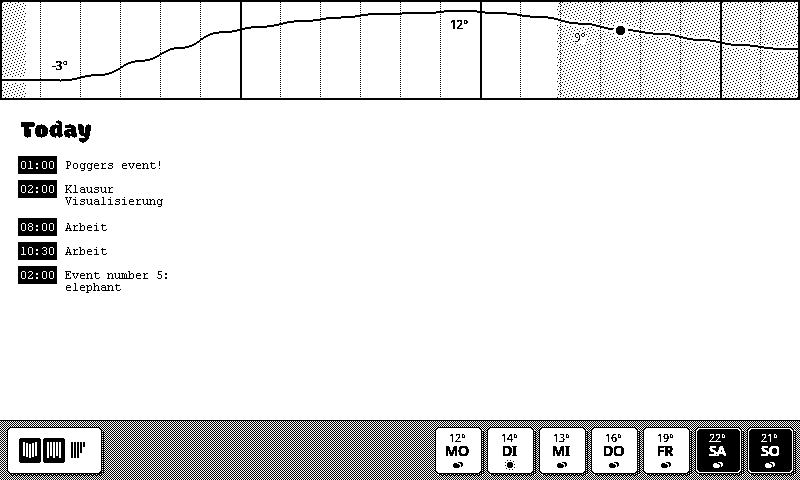
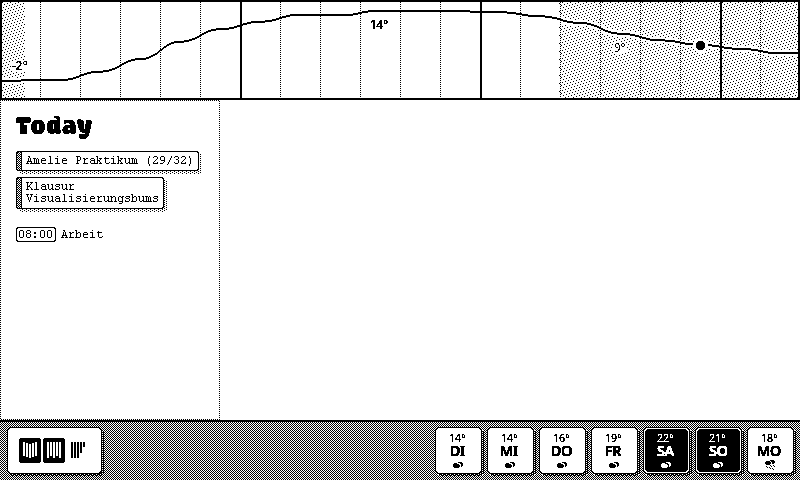
poo

diff --git a/base/ui/calendar.ts b/base/ui/calendar.ts
@@ -4,28 +4,68 @@ import type { Renderer } from "../lib/image"
 
 export function drawCalendarUpcoming(calendar: GCalendarApi): Renderer {
   return ({ paint, width, height }) => {
+    const padding = 15
+    const maxWidth = width - padding * 2
 
     paint.newRect(0, 0, width, height)
       .fill('white')
+      .outline('medium')
 
     const textPaint = paint
       .newText('Today')
-      .at(20, 20)
+      .at(padding, padding)
       .anchor('left', 'top')
-      .size(26)
+      .size(28)
       .font('Modak')
-      .threshold(0.2)
+      .threshold(0.05)
       .render('black')
 
-    // paint.newRect(40, 60, 120, 190)
-    //   .round(6)
-    //   .fill('medium')
-    //   .inset(1)
-    //   .fill('white')
+    const allDayers = calendar.today.filter(event => event.isAllDay)
+    const timedEvents = calendar.today.filter(event => !event.isAllDay)
 
-    let y = 60
-    for (let i = 0; i < 5; i++) {
-      const event = calendar.upcoming[i]
+    let y = textPaint.toRect().getSize().height + padding + 10
+    for (let i = 0; i < 6; i++) {
+      const event = allDayers[i]
+      if (!event) break
+
+      let title = event.summary
+      if (event.isMultiDay)
+        title += ` (${event.multiDayCurrent + 1}/${event.multiDayCount})`
+
+      const inset = 5
+      const textEvent = paint.newBitText(title)
+        .maxWidth(maxWidth - inset * 2)
+        .at(padding, y)
+        .size(12)
+        .anchor('left', 'top')
+        .translate(inset, inset)
+        .getRect(r => r
+          .inset(-inset)
+          .sized(r.getSize().width + 6, r.getSize().height - 1)
+          .round(2)
+          .translate(3, 3)
+          .fill('light')
+          .translate(-3, -3)
+          .fill('black')
+          .inset(1)
+          .fill('white')
+          .sized(6, r.getSize().height)
+          .fill('medium', 'darken')
+          .sized(1, r.getSize().height)
+          .round(0)
+          .translate(5, 0)
+          .fill('black')
+        )
+        .translate(6, 0)
+        .render('black')
+
+      y += ~~(textEvent.toRect().getSize().height + inset*2 + 4)
+    }
+
+    y += padding
+
+    for (let i = 0; i < 12; i++) {
+      const event = timedEvents[i]
       if (!event) break
 
       const start = new Date(event.start).toLocaleTimeString('de-DE', {
@@ -33,42 +73,71 @@ export function drawCalendarUpcoming(calendar: GCalendarApi): Renderer {
         minute: '2-digit',
         hour12: false,
       })
-      const timeText = paint.newBitText(start)
-        .maxWidth(500)
-        .at(20, y)
+
+      const inset = 3
+      let x = padding + inset
+      const textTime = paint.newBitText(start)
+        .at(x, y)
         .size(12)
+        .anchor('left', 'top')
         .getRect(r => r
-          .inset(-2)
-          .translate(0, -2)
+          .inset(-inset)
+          .round(2)
+          .sized(r.getSize().width, r.getSize().height - 2)
           .fill('black')
+          .inset(1)
+          .fill(event.isOver ? 'white' : 'black')
         )
-        .anchor('left', 'top')
-        .render('white')
-        .toRect()
+        .render(event.isOver ? 'black' : 'white')
 
-      const nameText = paint.newBitText(event.summary)
-        .maxWidth(150)
-        .at(20 + timeText.getSize().width + 10, y)
+      x += textTime.toRect().getSize().width + inset + 5
+
+      const textEvent = paint.newBitText(event.summary)
+        .maxWidth(maxWidth - x + padding)
+        .at(x, y)
         .size(12)
         .anchor('left', 'top')
+        .getRect(r => r.fill('white'))
         .render('black')
-        .toRect()
 
-      y += nameText.getSize().height + 10
+      y += textEvent.toRect().getSize().height + 10
     }
 
-    // paint
-    //   .newText('hui')
-    //   .at(width / 2, (height) / 2)
-    //   .anchor('center', 'center')
-    //   .size(200)
-    //   .font('Modak')
-    //   .threshold(0.9)
-    //   .translate(shadowDist, shadowDist)
-    //   .render('dark')
-    //   .translate(-shadowDist, -shadowDist)
-    //   .renderOutline('black', 4)
-    //   .renderOutline('white', 2)
-    //   .render('medium')
+    // let y = 60
+    // for (let i = 0; i < 10; i++) {
+    //   const event = calendar.list[i]
+    //   if (!event) break
+
+    //   const start = new Date(event.start).toLocaleTimeString('de-DE', {
+    //     hour: '2-digit',
+    //     minute: '2-digit',
+    //     hour12: false,
+    //   })
+    //   const timeText = paint.newBitText(start)
+    //     .maxWidth(500)
+    //     .at(20, y)
+    //     .size(12)
+    //     .getRect(r => r
+    //       .inset(-2)
+    //       .translate(0, -2)
+    //       .fill(allDay ? 'medium' : (over ? 'white' : 'black'))
+    //       .outline(allDay ? 'medium' : 'black')
+    //     )
+    //     .anchor('left', 'top')
+
+    //   if (!allDay)
+    //     timeText.render(over ? 'black' : 'white')
+
+    //   const nameText = paint.newBitText(event.summary)
+    //     .maxWidth(150)
+    //     .at(20 + timeText.toRect().getSize().width + 10, y)
+    //     .size(12)
+    //     .anchor('left', 'top')
+    //     .render('black')
+    //     .toRect()
+
+    //   y += nameText.getSize().height + 10
+    // }
+
   }
 }

diff --git a/base/api/gcalendar.ts b/base/api/gcalendar.ts
@@ -58,9 +58,11 @@ async function listCalendars(auth: any) {
 
 async function listUpcomingEvents(auth: any, calendarId: string) {
   const calendar = google.calendar({ version: 'v3', auth })
+  const startOfDay = new Date()
+  startOfDay.setHours(0, 0, 0, 0)
   const res = await calendar.events.list({
     calendarId: calendarId,
-    timeMin: new Date().toISOString(),
+    timeMin: startOfDay.toISOString(),
     maxResults: 10,
     singleEvents: true,
     orderBy: 'startTime',
@@ -94,28 +96,48 @@ export const useGCalendarApi = async (filter?: Filter) => {
     }))
   }
 
-  const list = await Promise.all(calendars.map(async (calendar) => {
+  const startOfToday = new Date()
+  startOfToday.setHours(0, 0, 0, 0)
+  const endOfToday = new Date()
+  endOfToday.setHours(23, 59, 59, 999)
+
+  const mapped = await Promise.all(calendars.map(async (calendar) => {
     const events = await listUpcomingEvents(authClient, calendar.id!)
-    return {
-      ...calendar,
-      events: events.map(event => ({
+    return events.map(event => {
+      const start = new Date(event.start?.dateTime || event.start?.date || 0)
+      const end = new Date(event.end?.dateTime || event.end?.date || 0)
+      const isAllDay = end.getTime() - start.getTime() >= 24 * 60 * 60 * 1000
+      const isMultiDay = isAllDay && (end.getTime() - start.getTime() > 24 * 60 * 60 * 1000)
+      const multiDayCount = isMultiDay ? Math.floor((end.getTime() - start.getTime()) / (24 * 60 * 60 * 1000)) : -1
+      const multiDayCurrent = isMultiDay ? Math.floor((new Date().getTime() - start.getTime()) / (24 * 60 * 60 * 1000)) : -1
+      const isToday = start.getTime() <= endOfToday.getTime() && end.getTime() >= startOfToday.getTime()
+
+      return {
         ...event,
-        start: new Date(event.start?.dateTime || event.start?.date || 0).getTime(),
-        end: new Date(event.end?.dateTime || event.end?.date || 0).getTime(),
-        summary: event.summary || 'No Title',
-        calendarId: calendar.id
-      }))
-    }
+        start,
+        end,
+        isOver: end.getTime() < new Date().getTime(),
+        isToday,
+        isAllDay,
+        isMultiDay,
+        multiDayCount,
+        multiDayCurrent,
+        summary: event.summary || '(no title)',
+        calendar
+      }
+    })
   }))
 
-  const upcoming = list
-    .flatMap(calendar => calendar.events)
-    .sort((a, b) => a.start - b.start)
-    .slice(0, 10)
+  const list = mapped
+    .flat()
+    .sort((a, b) => a.start.getTime() - b.start.getTime())
+
+  const today = list
+    .filter(e => e.isToday)
 
   return {
     list,
-    upcoming
+    today
   }
 }
 

diff --git a/base/index.ts b/base/index.ts
@@ -33,11 +33,13 @@ const weather = await useWeatherApi()
 consola.success('Weather loaded')
 
 consola.start('Loading gCalendar')
-// const calendar = await useGCalendarApi({
-//   blacklist: [ /@group\.v\.calendar\.google\.com$/gi ]
-// })
-// await fs.writeFile(path.join(import.meta.dir, '..', 'temp/calendar.json'), JSON.stringify(calendar, null, 2))
-const calendar = JSON.parse(await fs.readFile(path.join(import.meta.dir, '..', 'temp/calendar.json'), 'utf-8')) as GCalendarApi
+/*
+const calendar = await useGCalendarApi({
+  blacklist: [ /@group\.v\.calendar\.google\.com$/gi ]
+})
+await fs.writeFile(path.join(import.meta.dir, '..', 'temp/calendar.json'), JSON.stringify(calendar, null, 2))
+//*/ const calendar = JSON.parse(await fs.readFile(path.join(import.meta.dir, '..', 'temp/calendar.json'), 'utf-8')) as GCalendarApi
+//*/
 consola.success('gCalendar loaded')
 
 
@@ -55,7 +57,8 @@ function drawScreen() {
   img.draw(
     drawCalendarUpcoming(calendar),
     0, dayviewHeight,
-    Const.ScreenWidth, Const.ScreenHeight - dayviewHeight - dockHeight
+    // Const.ScreenWidth, Const.ScreenHeight - dayviewHeight - dockHeight
+    220, Const.ScreenHeight - dayviewHeight - dockHeight
   )
   img.draw(
     drawDock(weather),
@@ -72,8 +75,10 @@ async function drawAndUpdate(forceFullUpdate: boolean) {
   if (Date.now() - lastChange < 5000)
     return
 
+  lastChange = Date.now()
   const img = drawScreen()
   const rendered = img.renderFullBw()
+  consola.info(`Frame rendered in ${Date.now() - lastChange}ms`)
   await img.exportFullBw('test.png')
 
   if (!lastRendered || forceFullUpdate) {

diff --git a/base/lib/paint.ts b/base/lib/paint.ts
@@ -347,9 +347,8 @@ export const usePaint = (ctx: SKRSContext2D, startX = 0, startY = 0, screenWidth
       render: (style: FillStyle, mix?: MixMode) => {
         const font = cFont[data.size]
         const lines = TextUtils.sliceIntoNewlines(data.text, data.maxWidth / font.width)
-        const lineHeight = ~~(data.size * 1.2)
         const boxWidth = Math.max(...lines.map(line => line.length * font.width))
-        const boxHeight = lines.length * lineHeight
+        const boxHeight = lines.length * data.size
 
         let renderX = data.x
         if (data.anchorX === 'center') renderX -= boxWidth / 2
@@ -389,9 +388,8 @@ export const usePaint = (ctx: SKRSContext2D, startX = 0, startY = 0, screenWidth
       toRect: () => {
         const font = cFont[data.size]
         const lines = TextUtils.sliceIntoNewlines(data.text, data.maxWidth / font.width)
-        const lineHeight = ~~(data.size * 1.2)
         const boxWidth = Math.max(...lines.map(line => line.length * font.width))
-        const boxHeight = lines.length * lineHeight
+        const boxHeight = lines.length * data.size
 
         let renderX = data.x
         if (data.anchorX === 'center') renderX -= boxWidth / 2

diff --git a/base/ui/dock.ts b/base/ui/dock.ts
@@ -47,7 +47,7 @@ export function drawDock(weather: WeatherApi): Renderer {
   return ({ paint, width, height }) => {
     paint.newRect(0, 0, width, height)
       .fill('medium')
-    paint.newRect(0, 0, width, 1)
+    paint.newRect(0, 0, width, 2)
       .fill('black')
 
     const padding = 6
